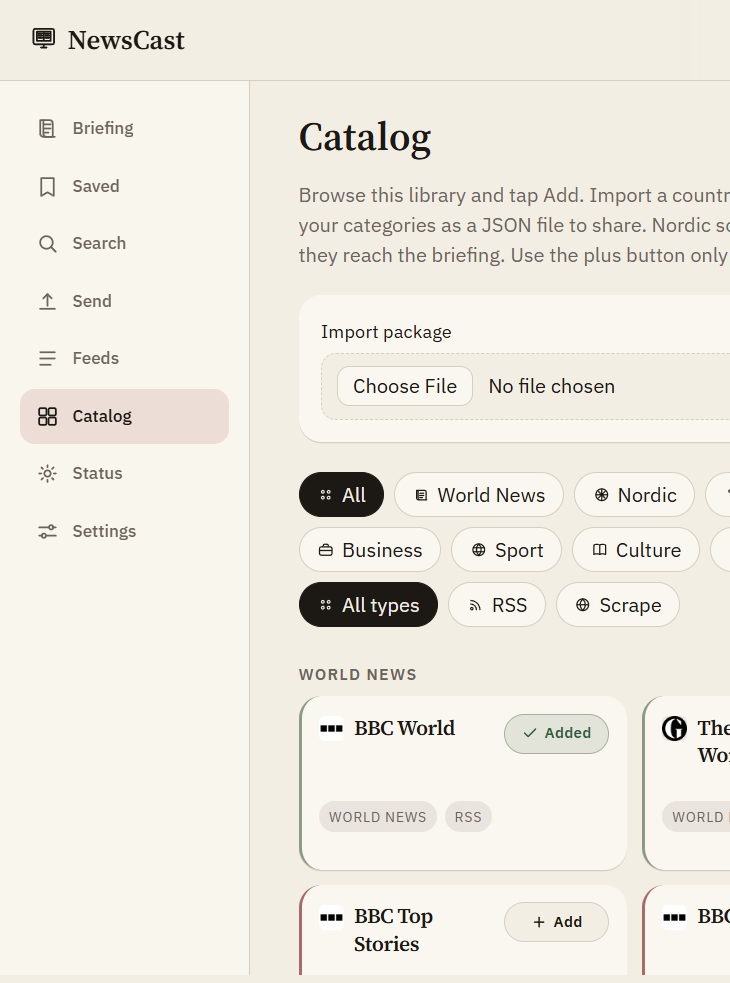
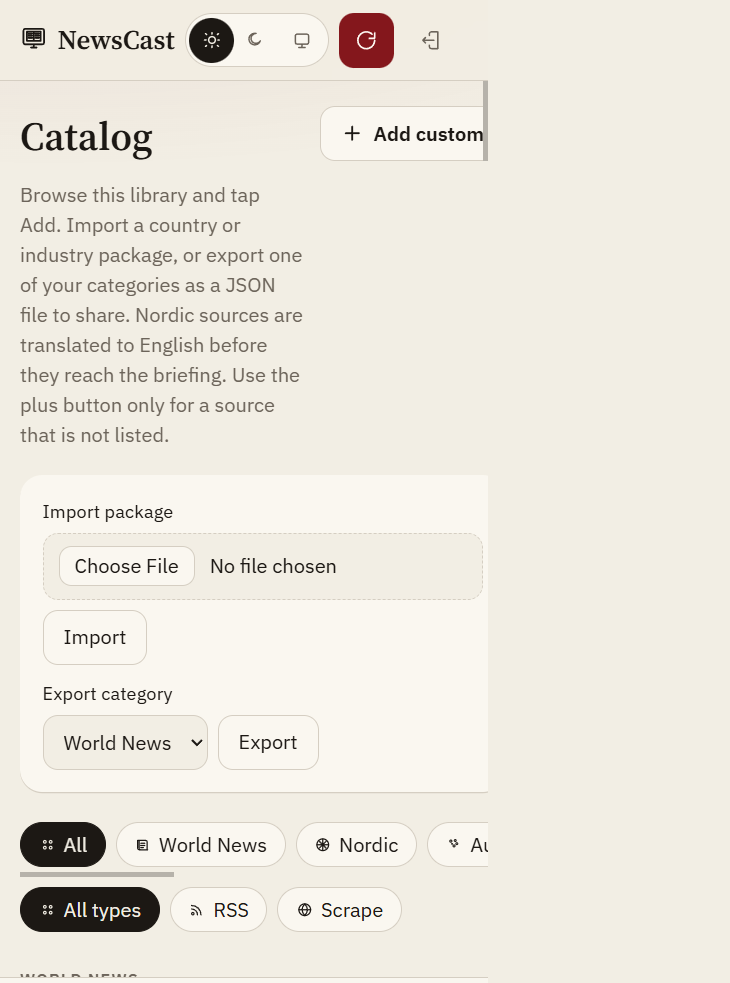
Show phone-width screenshots of sign-in and every nav tab on the README.
Login comes first, then Briefing through Settings so GitHub matches the mobile UI.

diff --git a/README.md b/README.md
@@ -7,7 +7,7 @@ The intended reader path is **CrossPoint** over OPDS. A Sync-style API is still 
 Default login: **admin** / **admin** on the in-page sign-in screen. Change it on Settings after first launch.
 
 <p align="center">
-  <img src="docs/screenshots/briefing.png" alt="NewsCast Briefing tab with Today and Yesterday chips and story cards" width="720" />
+  <img src="docs/screenshots/login.png" alt="NewsCast sign-in screen on a phone" width="280" />
 </p>
 
 ## What it does
@@ -34,13 +34,15 @@ Default login: **admin** / **admin** on the in-page sign-in screen. Change it on
 | **Status** | Ingest health, last reader task, CrossPoint online/asleep and push controls, OPDS / briefing links, a note when a GitHub update is available, and a QR code to open or add this copy on an iPhone home screen (NewsCast Home, NewsCast Work) |
 | **Settings** | Tabs for Access, Schedule, Filters (include/exclude words), LLM, Reader (catalog login and CrossPoint push), Categories, Backup/Restore, Update, and About |
 
-<p>
-  <img src="docs/screenshots/feeds.png" alt="Feeds tab with source health, schedule, and keyword fields" width="360" />
-  <img src="docs/screenshots/catalog.png" alt="Catalog tab with recommended sources and Add controls" width="360" />
-</p>
-<p>
-  <img src="docs/screenshots/status.png" alt="Status tab with reader links and story count" width="360" />
-  <img src="docs/screenshots/settings.png" alt="Settings Access tab for login, hostname, and instance name" width="360" />
+<p align="center">
+  <img src="docs/screenshots/briefing.png" alt="Briefing" width="280" />
+  <img src="docs/screenshots/saved.png" alt="Saved" width="280" />
+  <img src="docs/screenshots/search.png" alt="Search" width="280" />
+  <img src="docs/screenshots/send.png" alt="Send" width="280" />
+  <img src="docs/screenshots/feeds.png" alt="Feeds" width="280" />
+  <img src="docs/screenshots/catalog.png" alt="Catalog" width="280" />
+  <img src="docs/screenshots/status.png" alt="Status" width="280" />
+  <img src="docs/screenshots/settings.png" alt="Settings" width="280" />
 </p>
 
 Refresh in the header fetches every enabled source now. A background tick every minute only fetches sources that are due. Sources set to Global follow the Settings interval; Custom sources keep their own.

diff --git a/CHANGELOG.md b/CHANGELOG.md
@@ -9,7 +9,7 @@ Current version is **0.0.0.2**. New work is appended under that version until yo
 - Status and Settings treat a GitHub release that matches this copy as up to date, so they no longer offer to install the version already running
 
 ### Added
-- README shows Briefing, Feeds, Catalog, Status, and Settings screenshots
+- README shows phone-width screenshots: sign-in, then Briefing, Saved, Search, Send, Feeds, Catalog, Status, and Settings
 - Briefing chips switch Today and Yesterday; OPDS and `/api/x3/news.epub` can serve yesterday as well
 - Briefing bookmark saves a story as a Saved long-read beside the star
 - Feeds can mute a source for 24 hours, add include/exclude words, and show a Healthy / Empty / Error badge
